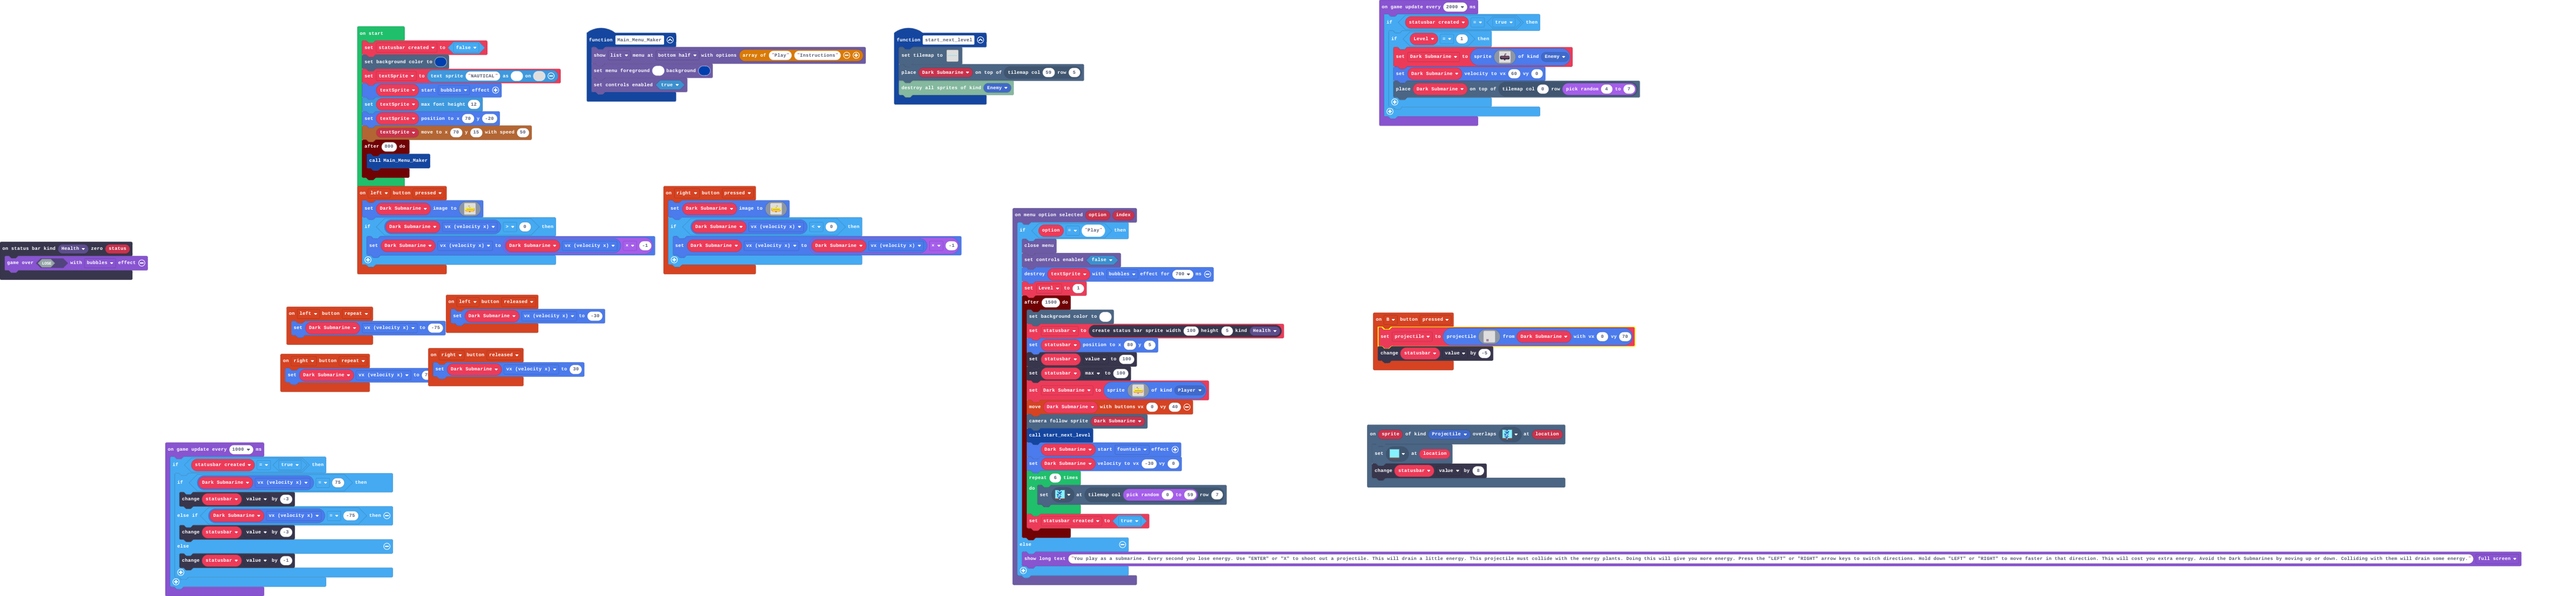
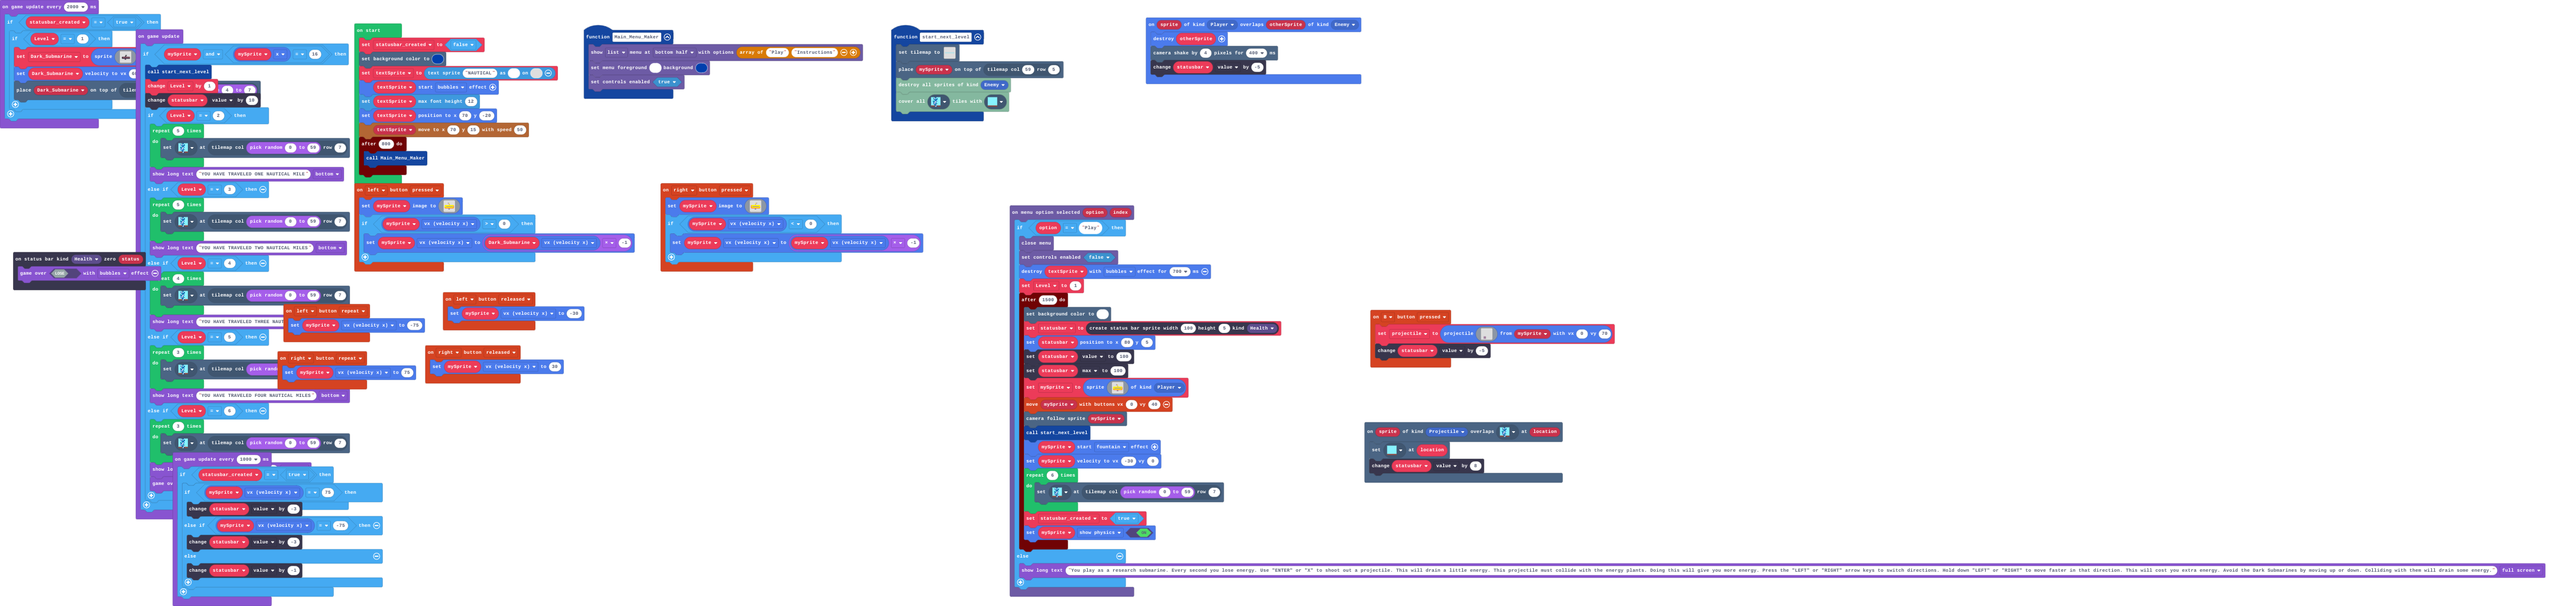
Update main.blocks, main.ts, tilemap.g.jres, tilemap.g.ts

Changed region(s): [[0.0, 0.0, 1.0, 1.0], [0.5312, 0.6759, 0.625, 0.8295], [0.5312, 0.4916, 0.6562, 0.6452]]

diff --git a/main.ts b/main.ts
@@ -20,28 +20,20 @@ controller.B.onEvent(ControllerButtonEvent.Pressed, function () {
         . . . b b b b . . . . . . . . . 
         . . . b b b b . . . . . . . . . 
         . . . b b b b . . . . . . . . . 
-        `, Dark_Submarine, 0, 70)
+        `, mySprite, 0, 70)
     statusbar.value += -5
 })
 controller.right.onEvent(ControllerButtonEvent.Repeated, function () {
-    Dark_Submarine.vx = 75
+    mySprite.vx = 75
 })
 function start_next_level () {
[1 lines of base64/hex data omitted]
-        ............................................................
-        ............................................................
-        222222222222222222222222222222222222222222222222222222222222
-        ............................................................
-        ............................................................
-        ............................................................
-        ............................................................
-        ............................................................
-        `, [myTiles.transparency16,sprites.dungeon.hazardWater,myTiles.tile1,myTiles.tile3], TileScale.Sixteen))
-    tiles.placeOnTile(Dark_Submarine, tiles.getTileLocation(59, 5))
+    tiles.setTilemap(tilemap`level`)
+    tiles.placeOnTile(mySprite, tiles.getTileLocation(59, 5))
     tiles.destroySpritesOfKind(SpriteKind.Enemy)
+    tiles.coverAllTiles(myTiles.tile2, myTiles.tile3)
 }
 controller.left.onEvent(ControllerButtonEvent.Pressed, function () {
-    Dark_Submarine.setImage(img`
+    mySprite.setImage(img`
         ...........bbb..................
         ...........b1b45................
         ...........b9b455...............
@@ -66,8 +58,8 @@ controller.left.onEvent(ControllerButtonEvent.Pressed, function () {
         .............bbbbb..............
         .............ccccc..............
         `)
-    if (Dark_Submarine.vx > 0) {
-        Dark_Submarine.vx = Dark_Submarine.vx * -1
+    if (mySprite.vx > 0) {
+        mySprite.vx = Dark_Submarine.vx * -1
     }
 })
 function Main_Menu_Maker () {
@@ -76,16 +68,16 @@ function Main_Menu_Maker () {
     blockMenu.setControlsEnabled(true)
 }
 controller.right.onEvent(ControllerButtonEvent.Released, function () {
-    Dark_Submarine.vx = 30
+    mySprite.vx = 30
 })
 controller.left.onEvent(ControllerButtonEvent.Released, function () {
-    Dark_Submarine.vx = -30
+    mySprite.vx = -30
 })
 statusbars.onZero(StatusBarKind.Health, function (status) {
     game.over(false, effects.bubbles)
 })
 controller.right.onEvent(ControllerButtonEvent.Pressed, function () {
-    Dark_Submarine.setImage(img`
+    mySprite.setImage(img`
         ..................bbb...........
         ................54b1b...........
         ...............554b9b...........
@@ -110,8 +102,8 @@ controller.right.onEvent(ControllerButtonEvent.Pressed, function () {
         .............bbbbb..............
         .............ccccc..............
         `)
-    if (Dark_Submarine.vx < 0) {
-        Dark_Submarine.vx = Dark_Submarine.vx * -1
+    if (mySprite.vx < 0) {
+        mySprite.vx = mySprite.vx * -1
     }
 })
 blockMenu.onMenuOptionSelected(function (option, index) {
@@ -126,7 +118,7 @@ blockMenu.onMenuOptionSelected(function (option, index) {
             statusbar.setPosition(80, 5)
             statusbar.value = 100
             statusbar.max = 100
-            Dark_Submarine = sprites.create(img`
+            mySprite = sprites.create(img`
                 ...........bbb..................
                 ...........b1b45................
                 ...........b9b455...............
@@ -151,25 +143,32 @@ blockMenu.onMenuOptionSelected(function (option, index) {
                 .............bbbbb..............
                 .............ccccc..............
                 `, SpriteKind.Player)
-            controller.moveSprite(Dark_Submarine, 0, 40)
-            scene.cameraFollowSprite(Dark_Submarine)
+            controller.moveSprite(mySprite, 0, 40)
+            scene.cameraFollowSprite(mySprite)
             start_next_level()
-            Dark_Submarine.startEffect(effects.fountain)
-            Dark_Submarine.setVelocity(-30, 0)
+            mySprite.startEffect(effects.fountain)
+            mySprite.setVelocity(-30, 0)
             for (let index2 = 0; index2 < 6; index2++) {
                 tiles.setTileAt(tiles.getTileLocation(randint(0, 59), 7), myTiles.tile2)
             }
             statusbar_created = true
+            mySprite.setFlag(SpriteFlag.ShowPhysics, true)
         })
     } else {
-        game.showLongText("You play as a submarine. Every second you lose energy. Use \"ENTER\" or \"X\" to shoot out a projectile. This will drain a little energy. This projectile must collide with the energy plants. Doing this will give you more energy. Press the \"LEFT\" or \"RIGHT\" arrow keys to switch directions. Hold down \"LEFT\" or \"RIGHT\" to move faster in that direction. This will cost you extra energy. Avoid the Dark Submarines by moving up or down. Colliding with them will drain some energy.", DialogLayout.Full)
+        game.showLongText("You play as a research submarine. Every second you lose energy. Use \"ENTER\" or \"X\" to shoot out a projectile. This will drain a little energy. This projectile must collide with the energy plants. Doing this will give you more energy. Press the \"LEFT\" or \"RIGHT\" arrow keys to switch directions. Hold down \"LEFT\" or \"RIGHT\" to move faster in that direction. This will cost you extra energy. Avoid the Dark Submarines by moving up or down. Colliding with them will drain some energy.", DialogLayout.Full)
     }
 })
+sprites.onOverlap(SpriteKind.Player, SpriteKind.Enemy, function (sprite, otherSprite) {
+    otherSprite.destroy()
+    scene.cameraShake(4, 400)
+    statusbar.value += -5
+})
 controller.left.onEvent(ControllerButtonEvent.Repeated, function () {
-    Dark_Submarine.vx = -75
+    mySprite.vx = -75
 })
 let Level = 0
 let Dark_Submarine: Sprite = null
+let mySprite: Sprite = null
 let projectile: Sprite = null
 let statusbar: StatusBarSprite = null
 let textSprite: TextSprite = null
@@ -184,33 +183,67 @@ story.spriteMoveToLocation(textSprite, 70, 15, 50)
 timer.after(800, function () {
     Main_Menu_Maker()
 })
+game.onUpdate(function () {
+    if (mySprite && mySprite.x == 16) {
+        start_next_level()
+        Level += 1
+        statusbar.value += 10
+        if (Level == 2) {
+            for (let index = 0; index < 5; index++) {
+                tiles.setTileAt(tiles.getTileLocation(randint(0, 59), 7), myTiles.tile2)
+            }
+            game.showLongText("YOU HAVE TRAVELED ONE NAUTICAL MILE", DialogLayout.Bottom)
+        } else if (Level == 3) {
+            for (let index = 0; index < 5; index++) {
+                tiles.setTileAt(tiles.getTileLocation(randint(0, 59), 7), myTiles.tile2)
+            }
+            game.showLongText("YOU HAVE TRAVELED TWO NAUTICAL MILES", DialogLayout.Bottom)
+        } else if (Level == 4) {
+            for (let index = 0; index < 4; index++) {
+                tiles.setTileAt(tiles.getTileLocation(randint(0, 59), 7), myTiles.tile2)
+            }
+            game.showLongText("YOU HAVE TRAVELED THREE NAUTICAL MILES", DialogLayout.Bottom)
+        } else if (Level == 5) {
+            for (let index = 0; index < 3; index++) {
+                tiles.setTileAt(tiles.getTileLocation(randint(0, 59), 7), myTiles.tile2)
+            }
+            game.showLongText("YOU HAVE TRAVELED FOUR NAUTICAL MILES", DialogLayout.Bottom)
+        } else if (Level == 6) {
+            for (let index = 0; index < 3; index++) {
+                tiles.setTileAt(tiles.getTileLocation(randint(0, 59), 7), myTiles.tile2)
+            }
+            game.showLongText("YOU HAVE BEATEN THE GAME", DialogLayout.Bottom)
+            game.over(true, effects.bubbles)
+        }
+    }
+})
 game.onUpdateInterval(2000, function () {
     if (statusbar_created == true) {
         if (Level == 1) {
             Dark_Submarine = sprites.create(img`
-                ..................eee...........
-                ................cfe1e...........
-                ...............ccfe1e...........
-                ...............cc.eee...........
-                ...............cc...............
-                ...............cc...............
+                ................................
+                ................................
+                ................................
+                ................................
+                ................................
+                .................fff............
+                ...............cff1f............
+                ...............cff1f............
+                ...............c.fff............
                 ...............ff...............
                 ..............ffff..............
-                ..cccccccccccccccccccccccccccc..
-                .fccccccccccccccccccccccccccccc.
-                ffcccccccccccccccccccccccccccccc
-                ffcccccccccccccccccccccccccccccc
-                ffccceeeceeeceeeceeeceeeceeecccc
-                ffccce1efe1efe1efe1efe1efe1ecccc
-                ffccceeeceeeceeeceeeceeeceeecccc
-                ffcccccccccccccccccccccccccccccc
-                ffccccccccccccccccccccccccccccff
-                ffffccccccccccccccccccccccccffff
-                .ffffffffffffffffffffffffffffff.
-                ..ffffffffffffffffffffffffffff..
+                .....fcccccccccccccccccccccccc..
+                ....ffceeeceeeceeeceeeceeeceeec.
+                ....ffce1efe1efe1efe1efe1efe1ec.
+                ....ffceeeceeeceeeceeeceeeceeec.
+                ....ffccccccccccccccccccccccccc.
+                ....ffcccccccccccccccccccccccff.
+                .....fffffffffffffffffffffffff..
                 ..............ccc...............
                 .............ccccc..............
                 .............fffff..............
+                ................................
+                ................................
                 `, SpriteKind.Enemy)
             Dark_Submarine.setVelocity(60, 0)
             tiles.placeOnTile(Dark_Submarine, tiles.getTileLocation(0, randint(4, 7)))
@@ -219,9 +252,9 @@ game.onUpdateInterval(2000, function () {
 })
 game.onUpdateInterval(1000, function () {
     if (statusbar_created == true) {
-        if (Dark_Submarine.vx == 75) {
+        if (mySprite.vx == 75) {
             statusbar.value += -3
-        } else if (Dark_Submarine.vx == -75) {
+        } else if (mySprite.vx == -75) {
             statusbar.value += -3
         } else {
             statusbar.value += -1

diff --git a/tilemap.g.ts b/tilemap.g.ts
@@ -9,5 +9,21 @@ namespace myTiles {
     //% fixedInstance jres blockIdentity=images._tile
     export const tile3 = image.ofBuffer(hex``);
 
+    helpers.registerTilemapFactory(function(name: string) {
+        switch(helpers.stringTrim(name)) {
[1 lines of base64/hex data omitted]
+............................................................
+............................................................
+222222222222222222222222222222222222222222222222222222222222
+............................................................
+............................................................
+............................................................
+............................................................
+............................................................
+`, [myTiles.transparency16,sprites.dungeon.hazardWater,myTiles.tile1,myTiles.tile3], TileScale.Sixteen)
+        }
+        return null;
+    })
+
 }
 // Auto-generated code. Do not edit.
